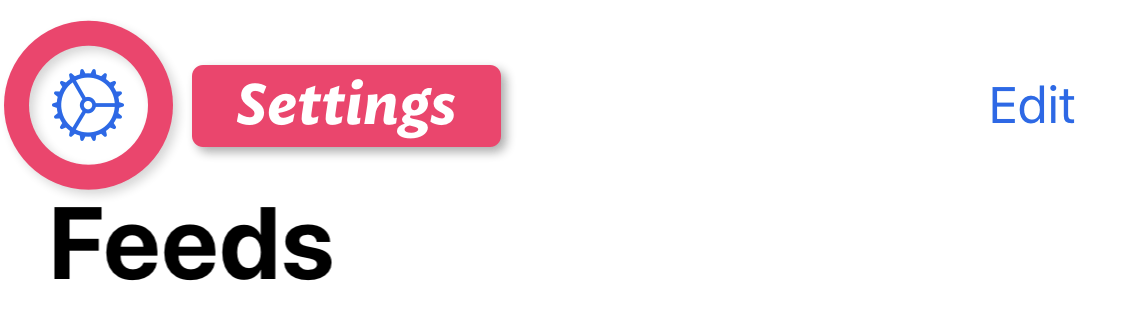
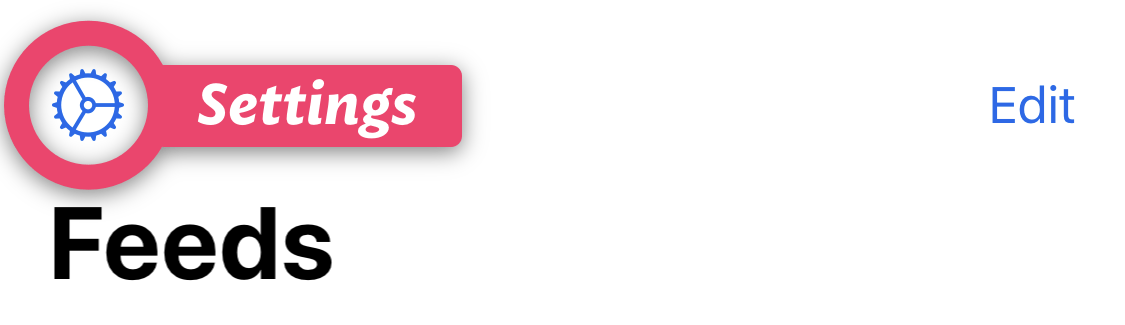
Add share extension page, screenshots
* Add share extension page
* Add share extension screenshots
* Add a .listImage CSS class (for real this time)
* Update iOS Settings image
* Minor language changes to news page

Changed region(s): [[0.0, 0.1231, 0.4667, 0.6462], [0.0311, 0.0308, 0.1244, 0.1231]]

diff --git a/styles/styleSheet.css b/styles/styleSheet.css
@@ -103,6 +103,11 @@ span.badge-distro-small {
 	margin-right: auto;
 }
 
+.listImage {
+	margin-top: 1.7em;
+	margin-bottom: 1.7em;
+}
+
 .shadowedBox
 {
 	box-shadow: 3px 3px 9px rgba(0, 0, 0, 0.3);
